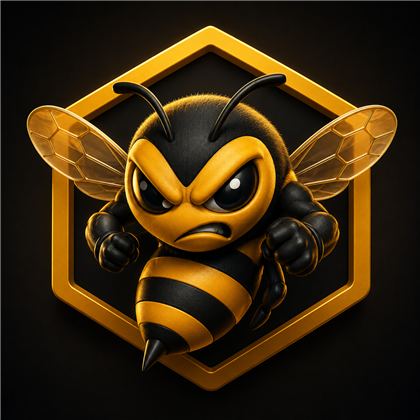
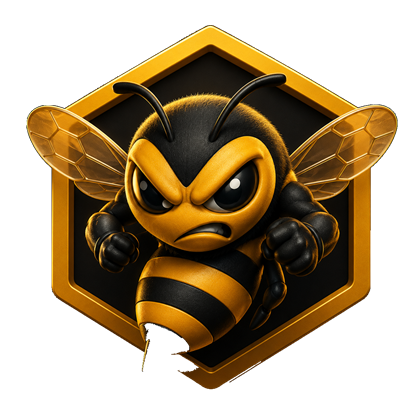
Transparent brand assets — bees and lockup float free of the black boxes; SW v5

diff --git a/sw.js b/sw.js
@@ -1,6 +1,6 @@
 // HIVE service worker — network-first for the page (so deploys show up immediately),
 // cache-first for static assets (icons). Firebase/CDN requests pass through untouched.
-const VERSION = 'hive-v4';
+const VERSION = 'hive-v5';
 
 self.addEventListener('install', () => self.skipWaiting());
 
